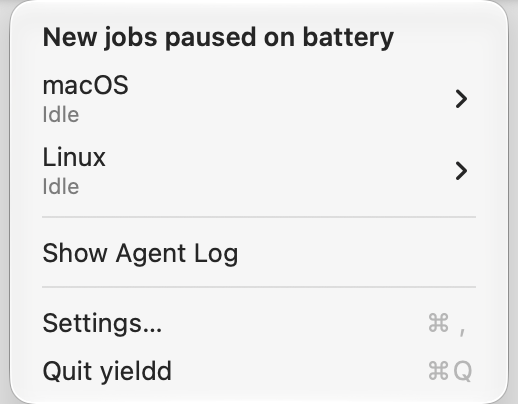
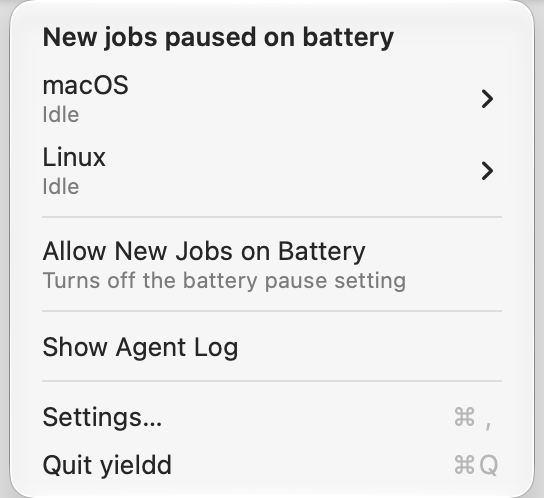
fix(macos): show the agent error and explain battery admission

diff --git a/Sources/Yieldd/Companion.swift b/Sources/Yieldd/Companion.swift
@@ -156,7 +156,6 @@ final class CompanionDelegate: NSObject, NSApplicationDelegate, NSMenuDelegate {
                 let several = snapshot.workers.contains { $0.id != worker.id && $0.platform == worker.platform }
                 let title = worker.platform == .macOS ? "macOS" : "Linux"
                 let phase = worker.phase.menuDescription
-                let issue = worker.connection == .retrying || worker.connection == .failed
                 let row = NSMenuItem(title: several ? "\(title) · Slot \(worker.slot + 1)" : title, action: nil, keyEquivalent: "")
                 var activity = [phase, worker.repository].compactMap { $0 }
                 switch worker.connection {
@@ -167,9 +166,7 @@ final class CompanionDelegate: NSObject, NSApplicationDelegate, NSMenuDelegate {
                 }
                 if worker.phase == .idle && worker.connection != .connected { activity.removeFirst() }
                 row.subtitle = activity.joined(separator: " · ")
-                if issue { row.title = "⚠  " + row.title }
-                else if worker.phase == .running { row.title = "▶  " + row.title }
-                row.setAccessibilityLabel([title, row.subtitle].compactMap { $0 }.joined(separator: ", "))
+                row.setAccessibilityLabel([row.title, row.subtitle].compactMap { $0 }.joined(separator: ", "))
                 let details = NSMenu()
                 details.autoenablesItems = false
                 let activityText = activity.joined(separator: " · ")
@@ -180,16 +177,20 @@ final class CompanionDelegate: NSObject, NSApplicationDelegate, NSMenuDelegate {
                     details.addItem(info)
                 }
                 if !details.items.isEmpty { details.addItem(.separator()) }
-                let copy = command("Copy Runner Details", #selector(copyDetails(_:)))
+                let copy = command("Copy Runner Details", #selector(copyText(_:)))
                 copy.representedObject = [worker.id, activityText, worker.runner, contact].compactMap { $0 }.joined(separator: "\n")
                 details.addItem(copy)
-                if issue { details.addItem(command("Show Agent Log", #selector(showAgentLog))) }
                 row.submenu = details
                 menu.addItem(row)
             }
             let manual = snapshot.manuallyPaused ?? snapshot.paused
-            if snapshot.pausedByBattery != true || manual {
-                menu.addItem(.separator())
+            menu.addItem(.separator())
+            if snapshot.pausedByBattery == true && !manual {
+                let allow = command("Allow New Jobs on Battery", #selector(allowOnBattery))
+                allow.subtitle = "Turns off the battery pause setting"
+                allow.isEnabled = !model.changing
+                menu.addItem(allow)
+            } else {
                 let title = manual ? (snapshot.pausedByBattery == true ? "Clear Manual Pause" : "Resume New Jobs") : "Pause New Jobs"
                 let toggle = command(title, manual ? #selector(resumeJobs) : #selector(pauseJobs))
                 toggle.isEnabled = !model.changing
@@ -199,8 +200,13 @@ final class CompanionDelegate: NSObject, NSApplicationDelegate, NSMenuDelegate {
             menu.addItem(command("Check Again", #selector(refresh)))
         }
         menu.addItem(.separator())
-        if model.snapshot?.lastError != nil {
-            menu.addItem(command("Copy Last Agent Error", #selector(copyLastError)))
+        if let error = model.snapshot?.lastError {
+            let copy = command("Copy Last Agent Error", #selector(copyText(_:)))
+            let preview = error.message.split(whereSeparator: \.isWhitespace).joined(separator: " ")
+            copy.subtitle = preview.count > 64 ? String(preview.prefix(63)) + "…" : preview
+            copy.toolTip = error.message
+            copy.representedObject = error.message
+            menu.addItem(copy)
         }
         menu.addItem(command("Show Agent Log", #selector(showAgentLog)))
         menu.addItem(.separator())
@@ -218,16 +224,12 @@ final class CompanionDelegate: NSObject, NSApplicationDelegate, NSMenuDelegate {
     @objc private func refresh() { send("status") }
     @objc private func pauseJobs() { send("pause") }
     @objc private func resumeJobs() { send("resume") }
+    @objc private func allowOnBattery() { send("allow-on-battery") }
     @objc private func quit() { NSApp.terminate(nil) }
-    @objc private func copyDetails(_ item: NSMenuItem) {
+    @objc private func copyText(_ item: NSMenuItem) {
         guard let details = item.representedObject as? String else { return }
         NSPasteboard.general.clearContents()
         NSPasteboard.general.setString(details, forType: .string)
-    }
-    @objc private func copyLastError() {
-        guard let error = model.snapshot?.lastError else { return }
-        NSPasteboard.general.clearContents()
-        NSPasteboard.general.setString(error.message, forType: .string)
     }
     @objc private func showAgentLog() {
         if logWindow == nil {
